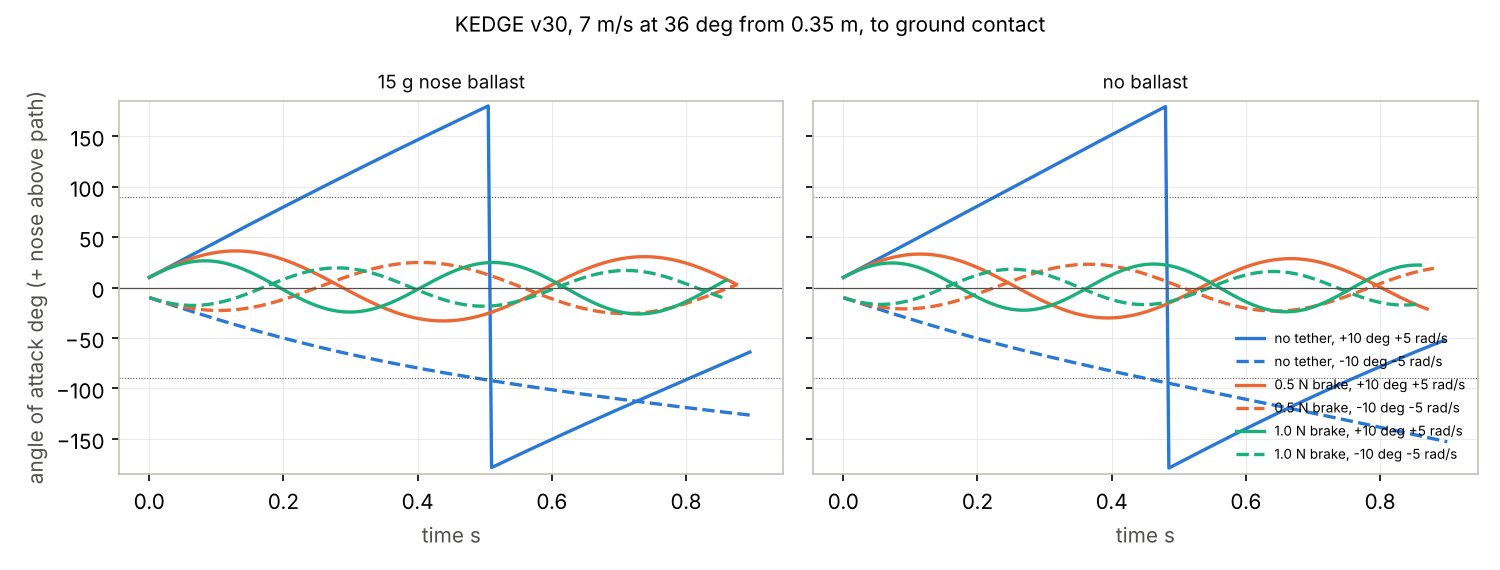
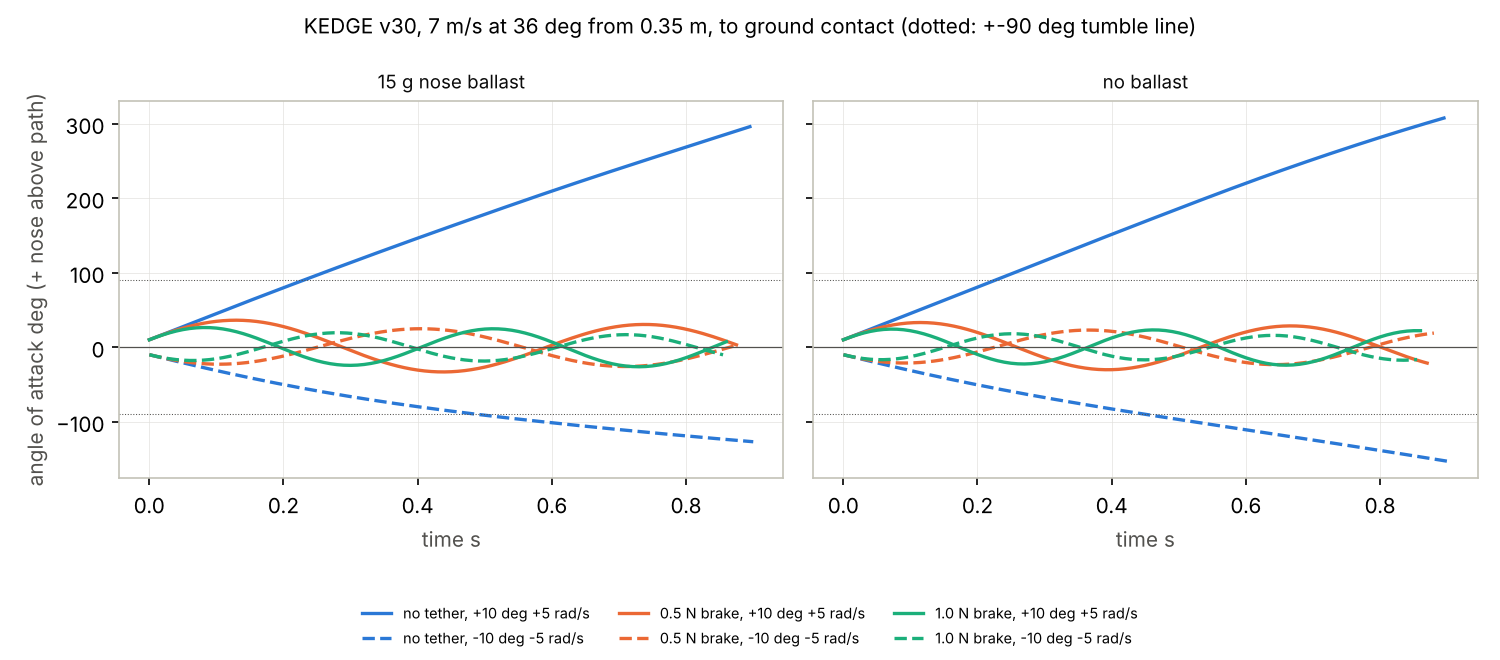
physics: attitude.py (pitch-plane stability at 6 to 8 m/s) + tests, FINDINGS F9

diff --git a/base/physics/test_attitude.py b/base/physics/test_attitude.py
@@ -1,0 +1,46 @@
+import numpy as np
+import pytest
+
+from attitude import mass_props, simulate
+
+
+def test_mass_props_match_kedge():
+    # kedge/out30/flight_sim.json inputs (15 g ballast): 0.279 kg, CG x 79.1 mm, Iyy 3.398e-4
+    m, cgx, iyy = mass_props(15.0)
+    assert m == pytest.approx(0.279, abs=0.001)
+    assert cgx * 1000 == pytest.approx(79.1, abs=0.1)
+    assert iyy == pytest.approx(3.398e-4, rel=0.01)
+
+
+@pytest.mark.parametrize("kick", [0.0, 10.0])
+def test_ballast_15g_no_tether_18ms_stable(kick):
+    # kedge setup: 45 deg from z = 0, CG ground rule; kedge reports no tumble, max |alpha| after 0.6 s 18.1 deg
+    r = simulate(18.0, 45.0, 0.0, kick, 0.0, 15.0, z0=0.0, ground_ends=False)
+    assert not r["tumbled"][0]
+    late = r["trace_alpha"][r["trace_t"] > 0.6, 0]
+    assert np.nanmax(np.abs(late)) < 25.0
+    if kick == 10.0:
+        assert r["impact"]["x"][0] == pytest.approx(29.4, abs=0.5)
+
+
+def test_no_ballast_no_tether_18ms_tumbles():
+    # kedge "no tether" case: tumbles, range 27.7 m
+    r = simulate(18.0, 45.0, 0.0, 10.0, 0.0, 0.0, z0=0.0, ground_ends=False)
+    assert r["tumbled"][0]
+    assert r["impact"]["x"][0] == pytest.approx(27.7, abs=0.5)
+
+
+def test_free_body_keeps_pitch_rate():
+    # no aero, no tether: torque free, theta-dot constant and theta linear in time
+    w0 = 3.0
+    r = simulate(7.0, 36.0, 0.0, 0.0, w0, 15.0, aero=False, ground_ends=False, z0=0.35)
+    assert r["w_end"][0] == pytest.approx(w0, abs=1e-12)
+    t_end = r["impact"]["t"][0]
+    assert r["impact"]["theta"][0] == pytest.approx(36.0 + np.degrees(w0 * t_end), abs=1e-6)
+
+
+def test_tether_brings_nose_first_at_base_speed():
+    # base station shot: 7 m/s at 36 deg, 0.5 N brake, nose-up kick and rate disturbance
+    r = simulate(7.0, 36.0, 0.5, 10.0, 5.0, 15.0)
+    assert not r["tumbled"][0]
+    assert r["nose_first"][0]

diff --git a/base/physics/attitude.py b/base/physics/attitude.py
@@ -196,13 +196,15 @@ def plot(path):
     matplotlib.use("Agg")
     import matplotlib.pyplot as plt
     cols = {0.0: "#2a78d6", 0.5: "#eb6834", 1.0: "#1baf7a"}
-    fig, axs = plt.subplots(1, 2, figsize=(10, 3.8), sharey=True)
+    fig, axs = plt.subplots(1, 2, figsize=(10, 4.4), sharey=True)
     for ax, bal in zip(axs, (15.0, 0.0)):
         for te, cl in cols.items():
             for dth, dr, ls in ((10.0, 5.0, "-"), (-10.0, -5.0, "--")):
                 r = simulate(7.0, 36.0, te, dth, dr, bal)
                 lab = "no tether" if te == 0 else "%.1f N brake" % te
-                ax.plot(r["trace_t"], r["trace_alpha"][:, 0], color=cl, lw=1.6, ls=ls,
+                a = r["trace_alpha"][:, 0]
+                a = np.degrees(np.unwrap(np.radians(a[~np.isnan(a)])))   # unwrapped so a tumble reads as a ramp
+                ax.plot(r["trace_t"][:len(a)], a, color=cl, lw=1.6, ls=ls,
                         label="%s, %+d deg %+d rad/s" % (lab, dth, dr))
         ax.axhline(0, color="#52514e", lw=0.6)
         for yy in (90, -90):
@@ -213,10 +215,10 @@ def plot(path):
         for sp_ in ax.spines.values():
             sp_.set_color("#c3c2b7")
     axs[0].set_ylabel("angle of attack deg (+ nose above path)", color="#52514e")
-    axs[0].set_ylim(-185, 185)
-    axs[1].legend(fontsize=6.5, frameon=False, loc="lower right")
-    fig.suptitle("KEDGE v30, 7 m/s at 36 deg from 0.35 m, to ground contact", fontsize=10)
-    fig.tight_layout()
+    h, lb = axs[0].get_legend_handles_labels()
+    fig.legend(h, lb, fontsize=7, frameon=False, loc="lower center", ncol=3)
+    fig.suptitle("KEDGE v30, 7 m/s at 36 deg from 0.35 m, to ground contact (dotted: +-90 deg tumble line)", fontsize=10)
+    fig.tight_layout(rect=(0, 0.13, 1, 1))
     fig.savefig(path, dpi=150)
     plt.close(fig)
 

diff --git a/base/physics/FINDINGS.md b/base/physics/FINDINGS.md
@@ -98,3 +98,10 @@ coordinator please confirm which). Models: base/physics/*.py, every number repro
 
 - Cock force at 280 mm: 84 N on the carriage (rack/big gear tooth load); sprag #1 sees ~1.5 N m: huge margin.
 - DRV8833 for the drum N20 needs the buck (VM max 10.8 V), as the workplan says.
+
+## F9. Dart attitude at 6 to 8 m/s (attitude.py, 3-DOF pitch plane, same physics as kedge/flight_sim.py)
+
+- With the tether at 0.5 to 1 N: nose first in all 324 cases (pitch 10 to 47, +-10 deg and +-5 rad/s disturbances),
+  with or without the 15 g ballast. Nose-first body angle at impact -17 to -80 deg at 36 deg pitch.
+- Without the tether it tumbles or lands tail first: at this speed the tether, not the ballast, does the stabilising.
+  So never test-fire without the line on (a dry shot can land tail first).
